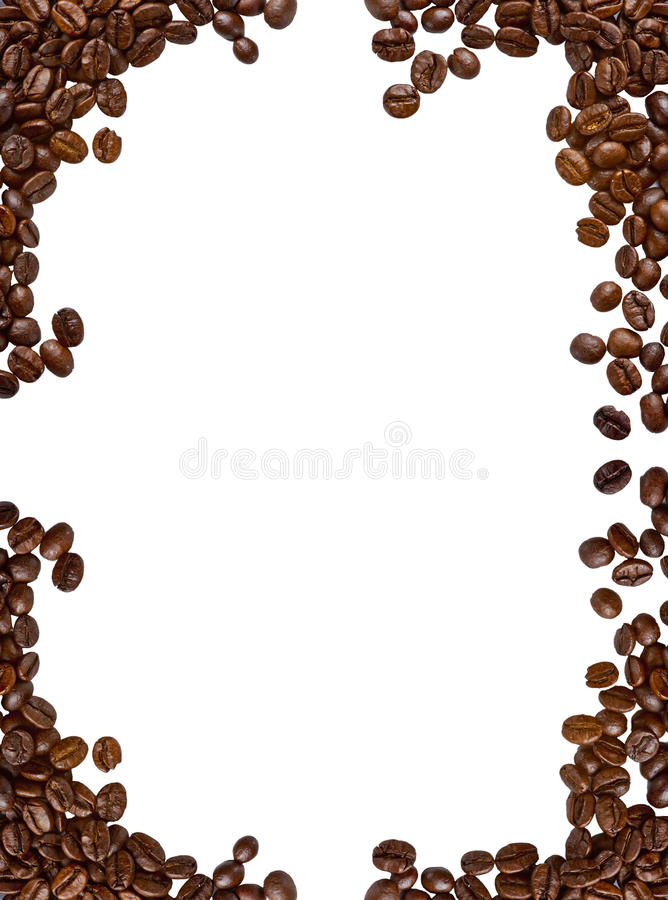
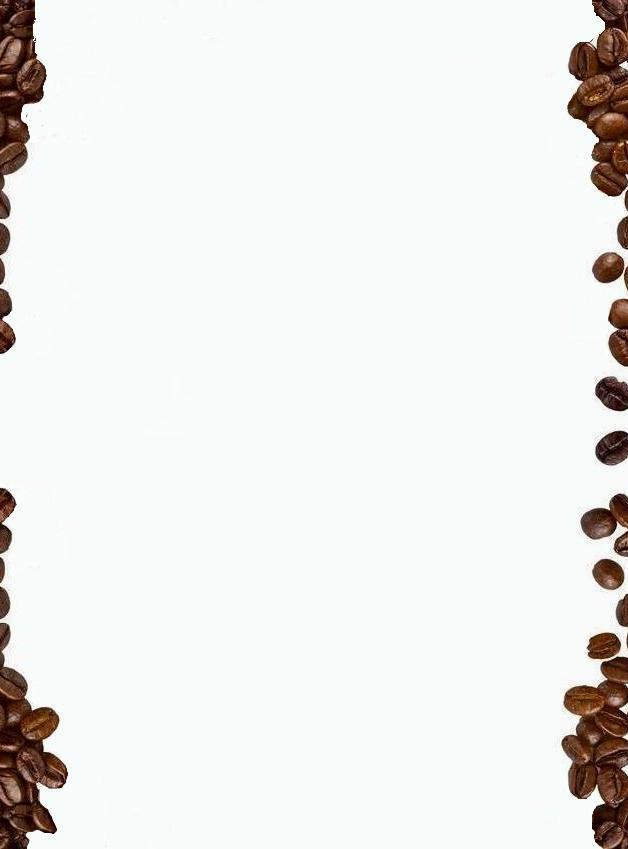
Correcciones Finales 03

Changed region(s): [[0.5446, 0.0, 1.0, 1.0], [0.0, 0.5512, 0.4538, 1.0], [0.0, 0.0, 0.4538, 0.4594]]

diff --git a/public/css/styles.css b/public/css/styles.css
@@ -198,10 +198,10 @@ article img{
 /*-----   BODY mi compra  -----*/
 .background-mc{
 	background-color: #FAF3E0;
-	background-image: url("/images/imagenFondo-mc.jpg");
+	background-image: url("/images/imagenFondo.jpg");
 	background-size: 100%;
 	background-position: center;
-	background-attachment:fixed;
+	/*background-attachment:fixed;*/
 	image-orientation:90deg ;
 }
 
@@ -219,7 +219,7 @@ article img{
 
 .title-mc{
 	font-size: 30px;
-	padding: 25px 0px 20px 0px;
+	padding: 30px 0px 15px 0px;
 	text-align: center;
 }
 
@@ -593,12 +593,12 @@ margin-top: 5px;
 		width: 100%;
 	}
 
-	main{
+	/*main{
 		background-image: url(/images/imagenFondo.jpg);
 		background-attachment: fixed;
 		background-repeat: no-repeat;
 		background-size: cover;
-	}
+	}*/
 	.carrusel img{
 		margin-top: 50px;
 	}
@@ -911,7 +911,7 @@ margin-top: 5px;
 
 	.background-detalle{
 		background-color: #FAF3E0;
-		background-image: url("/images/imagenFondo-mc.jpg");
+		background-image: url("/images/imagenFondo.jpg");
 		background-size: 100%;
 		background-position: center;
 		background-attachment:fixed;

diff --git a/views/productCart.html b/views/productCart.html
@@ -61,7 +61,6 @@
     </header>
 
     <main class="background-mc">
-        <br><br><br>
         
         <div class="background-div-mc">
 
